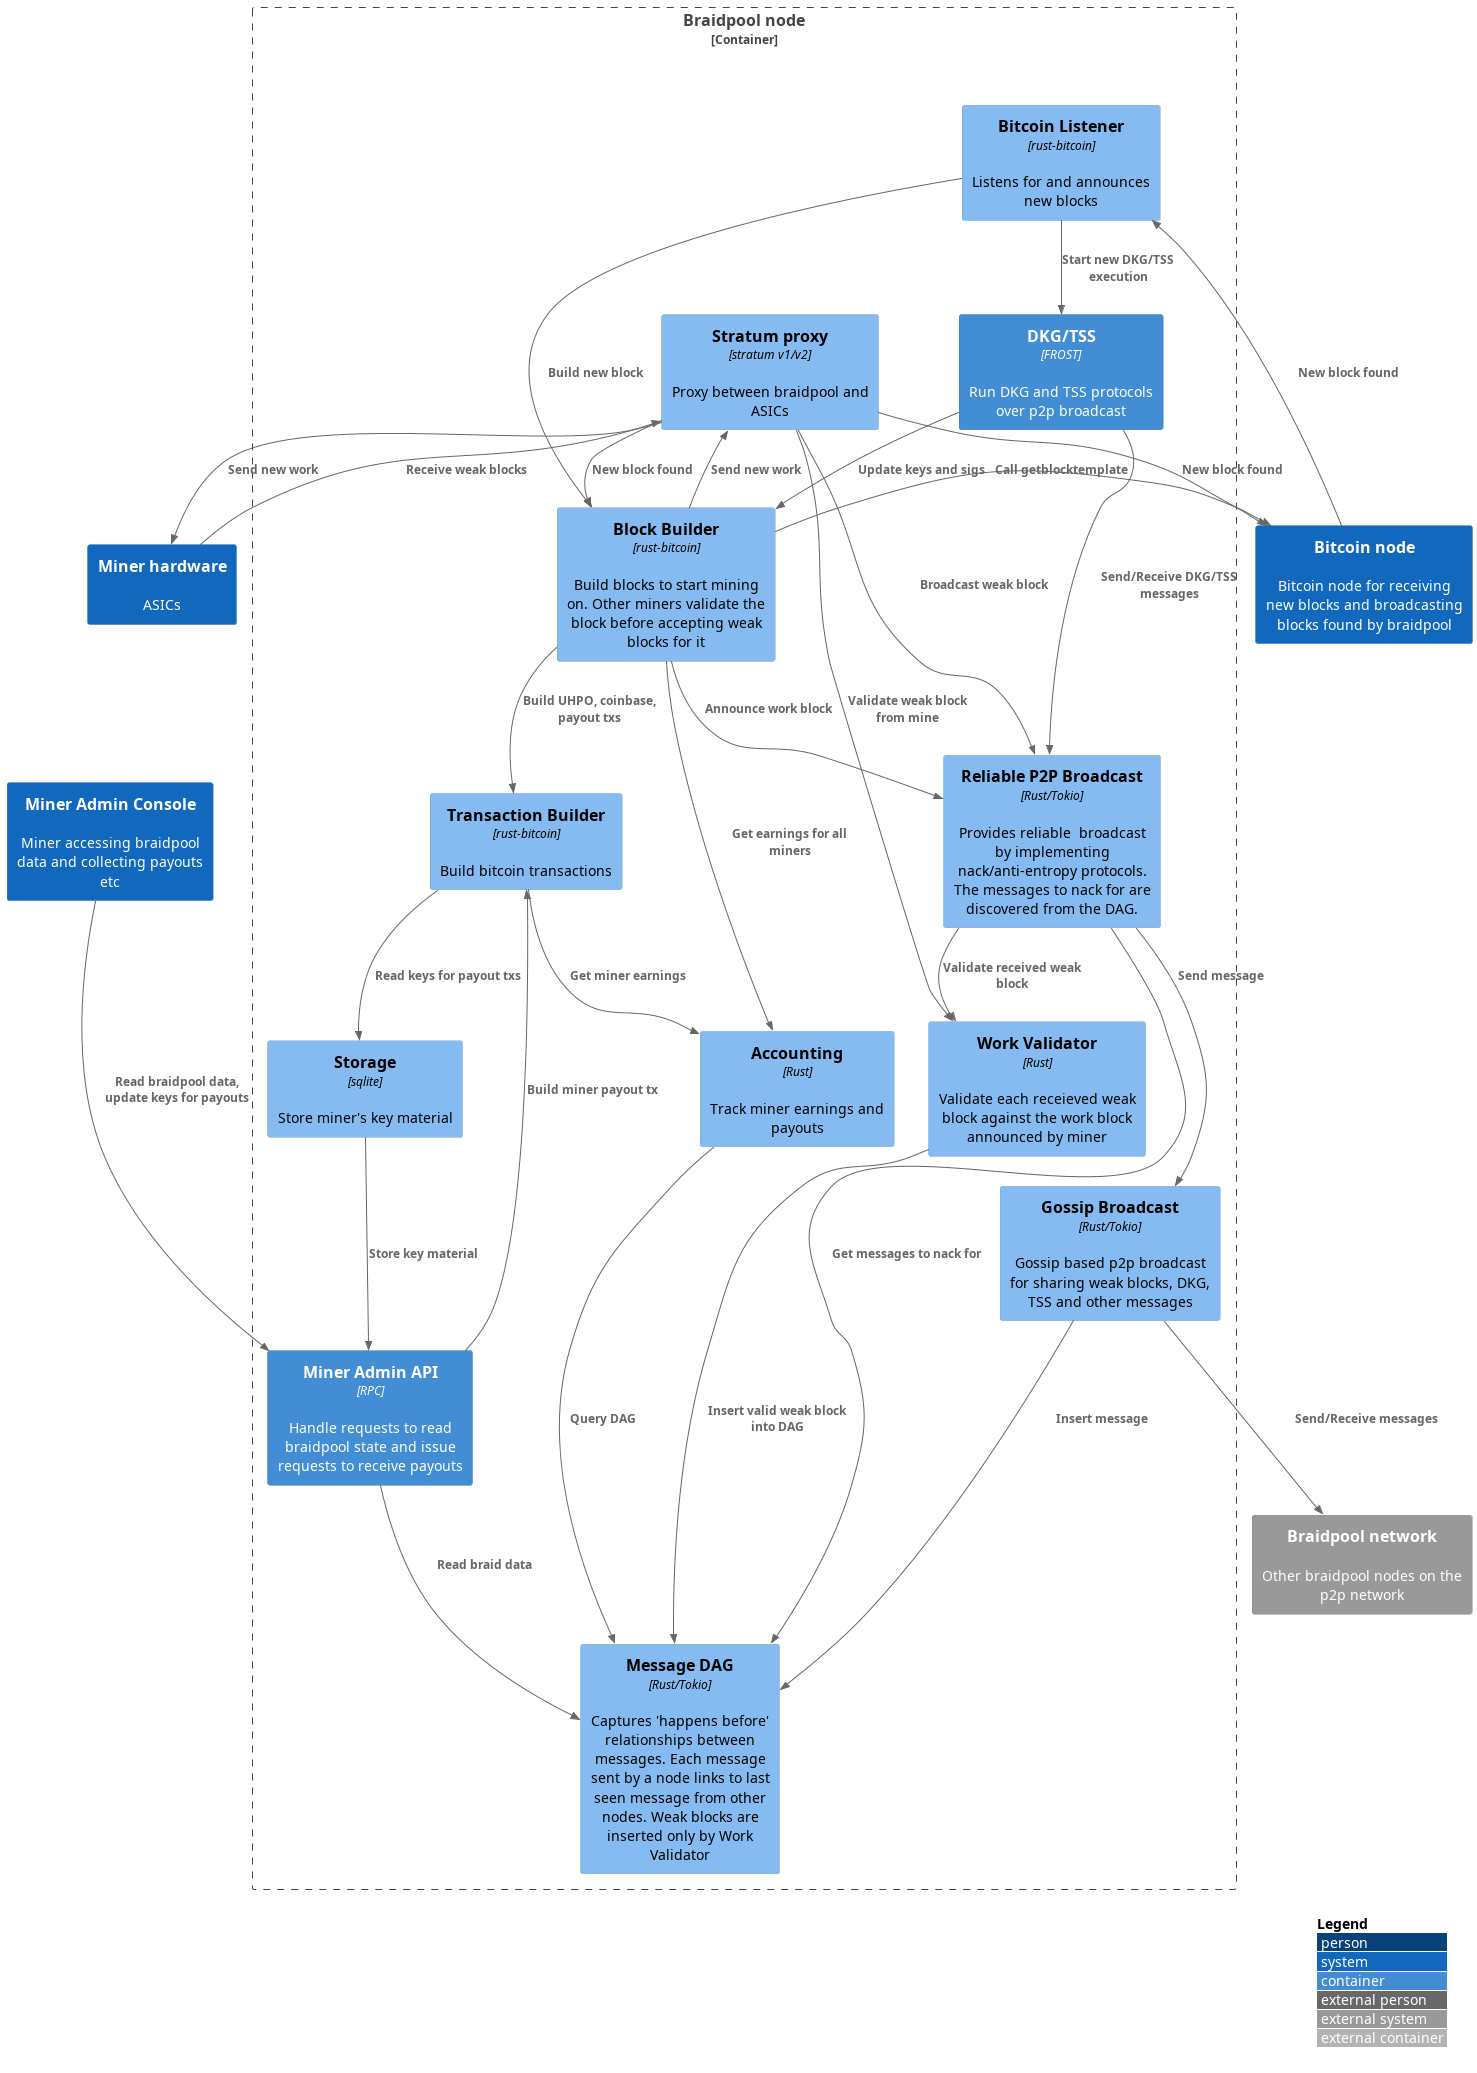
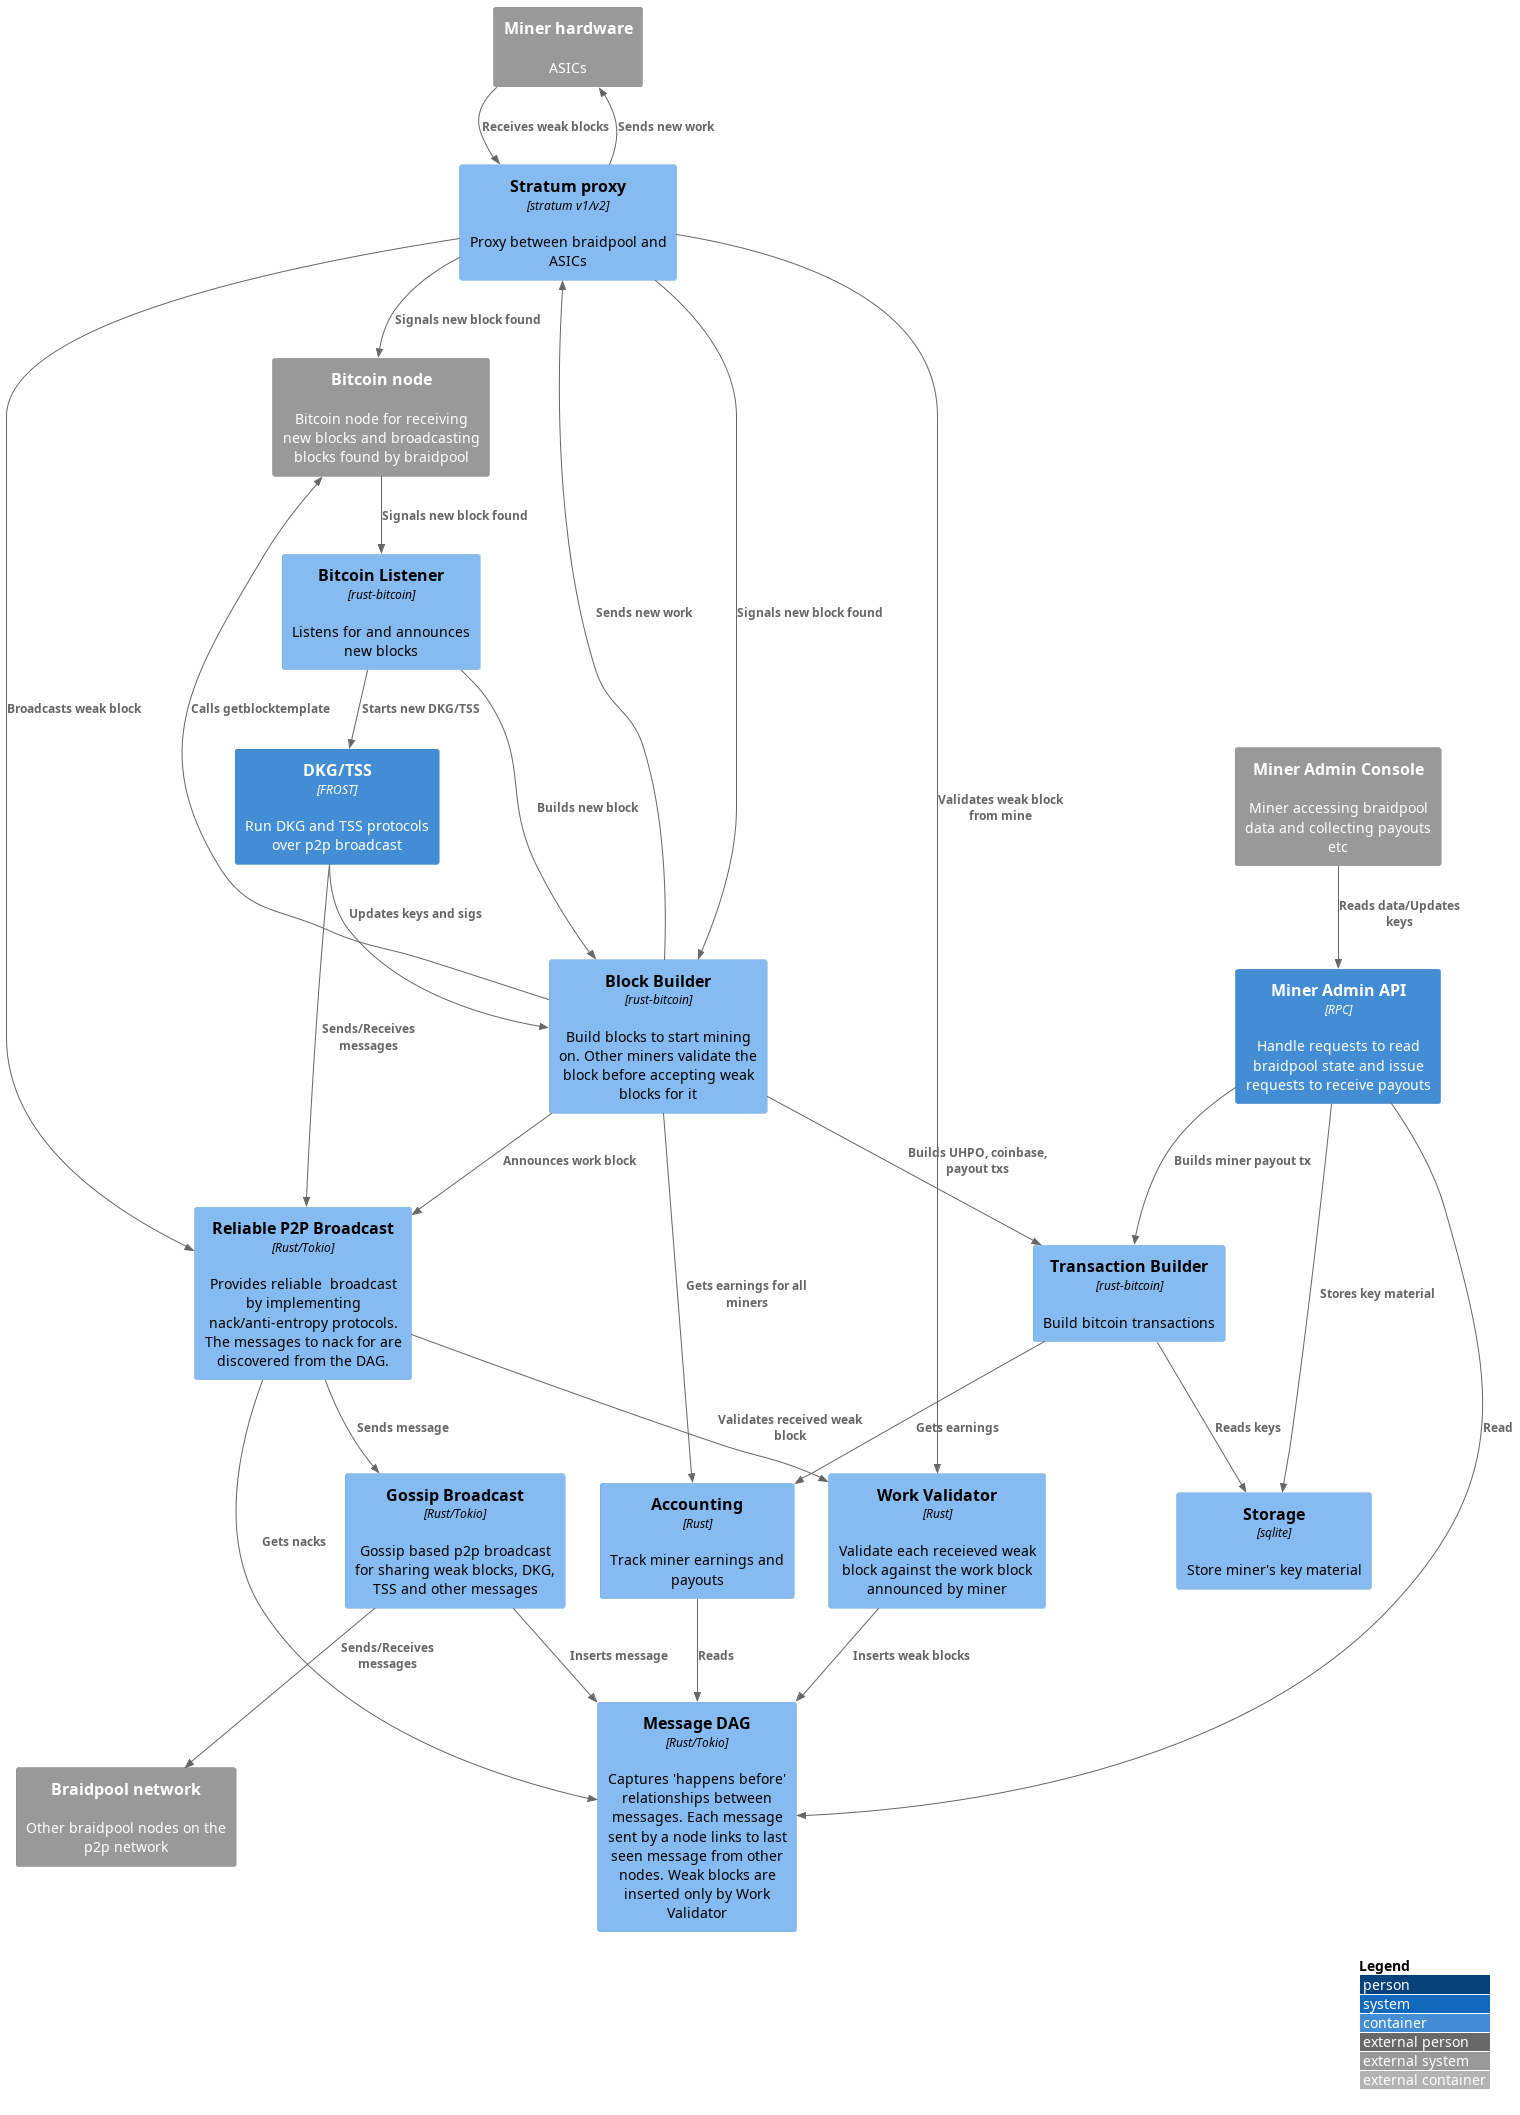
Update c4model layout

diff --git a/docs/_posts/2023-09-13-braidpool-architecture-diagram.md b/docs/_posts/2023-09-13-braidpool-architecture-diagram.md
@@ -1,14 +1,20 @@
 ---
 layout: post
-title: Braidpool Architecture
+title: Braidpool Context and Components
 image: assets/BC_Logo_.png
 ---
 
-![Braidpool node architecture](/assets/architecture/braidpool_node.png)
-
-The braidpool architecture using C4Model looks a bit like the picture above.
-
-The context the braidpool node is shown below.
+A braidpool nodes works in the context of a mining facility and a
+bitcoind node.
 
 ![Braidpool context](/assets/architecture/braidpool_context.png){:width="500px"}.
+
+
+## Braidpool components
+
+The various braidpool components using C4Model that we need to build
+are shown below.
+
+![Braidpool node architecture](/assets/architecture/braidpool_node.png)
+
 
